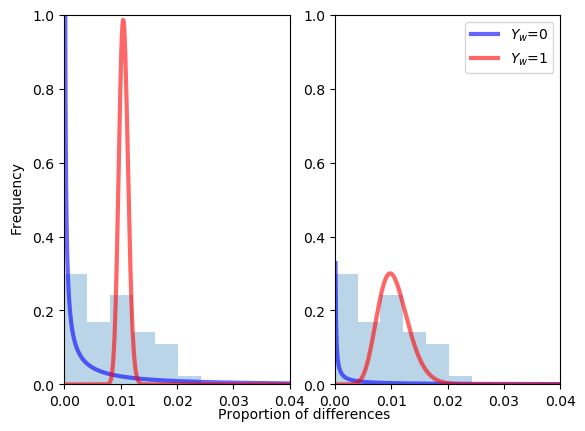
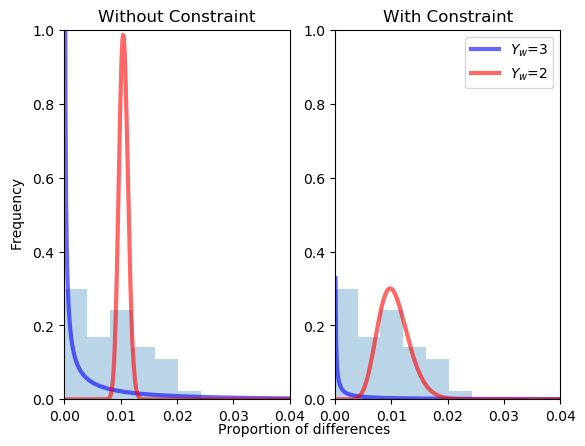
added title to supp fig. 13 and 14 constraint figs

diff --git a/supplementary_info/forcedROH.py b/supplementary_info/forcedROH.py
@@ -464,16 +464,19 @@ def plotbetas(dfile, tfile, ind, chrmf, p1file, upA, targets, outplot):
 
         a=betas[0]
         b=betas[1]
-        ax[i].plot(x, beta.pdf(x, a, b)/500,'b-', lw=3, alpha=0.6, label="$Y_w$=0")
+        ax[i].plot(x, beta.pdf(x, a, b)/500,'b-', lw=3, alpha=0.6, label="$Y_w$=3")
 
         a=betas[2]
         b=betas[3]
-        ax[i].plot(x, beta.pdf(x, a, b)/500,'r-', lw=3, alpha=0.6, label="$Y_w$=1")
+        ax[i].plot(x, beta.pdf(x, a, b)/500,'r-', lw=3, alpha=0.6, label="$Y_w$=2")
         ax[i].hist(diff/total,alpha=0.3, weights=np.ones(len(diff)) / len(diff))
 
         ax[i].set_ylim(0,1)
         ax[i].set_xlim(0,0.04)
-        
+
+    ax[0].set_title('Without Constraint')
+    ax[1].set_title('With Constraint')
+
     ax[1].legend(loc="upper right")
     fig.text(0.5, 0.04, 'Proportion of differences', ha='center')
     fig.text(0.04, 0.5, 'Frequency', va='center', rotation='vertical')

diff --git a/supplementary_info/beta_bnds.py b/supplementary_info/beta_bnds.py
@@ -658,6 +658,9 @@ def plot_betas(dfile, tfile, pair, thresh, rel, libraries, listf, Afile, pfile, 
         ax[i].hist(diff/total,alpha=0.3,weights=np.ones(len(total)) / len(total))
         ax[i].set_ylim(0,0.4)
 
+    ax[0].set_title('Without Constraint')
+    ax[1].set_title('With Constraint')
+
     ax[1].legend(loc="upper right")
     fig.text(0.5, 0.04, 'Frequency', ha='center')
     fig.text(0.04, 0.5, 'Proportion of differences', va='center', rotation='vertical')
